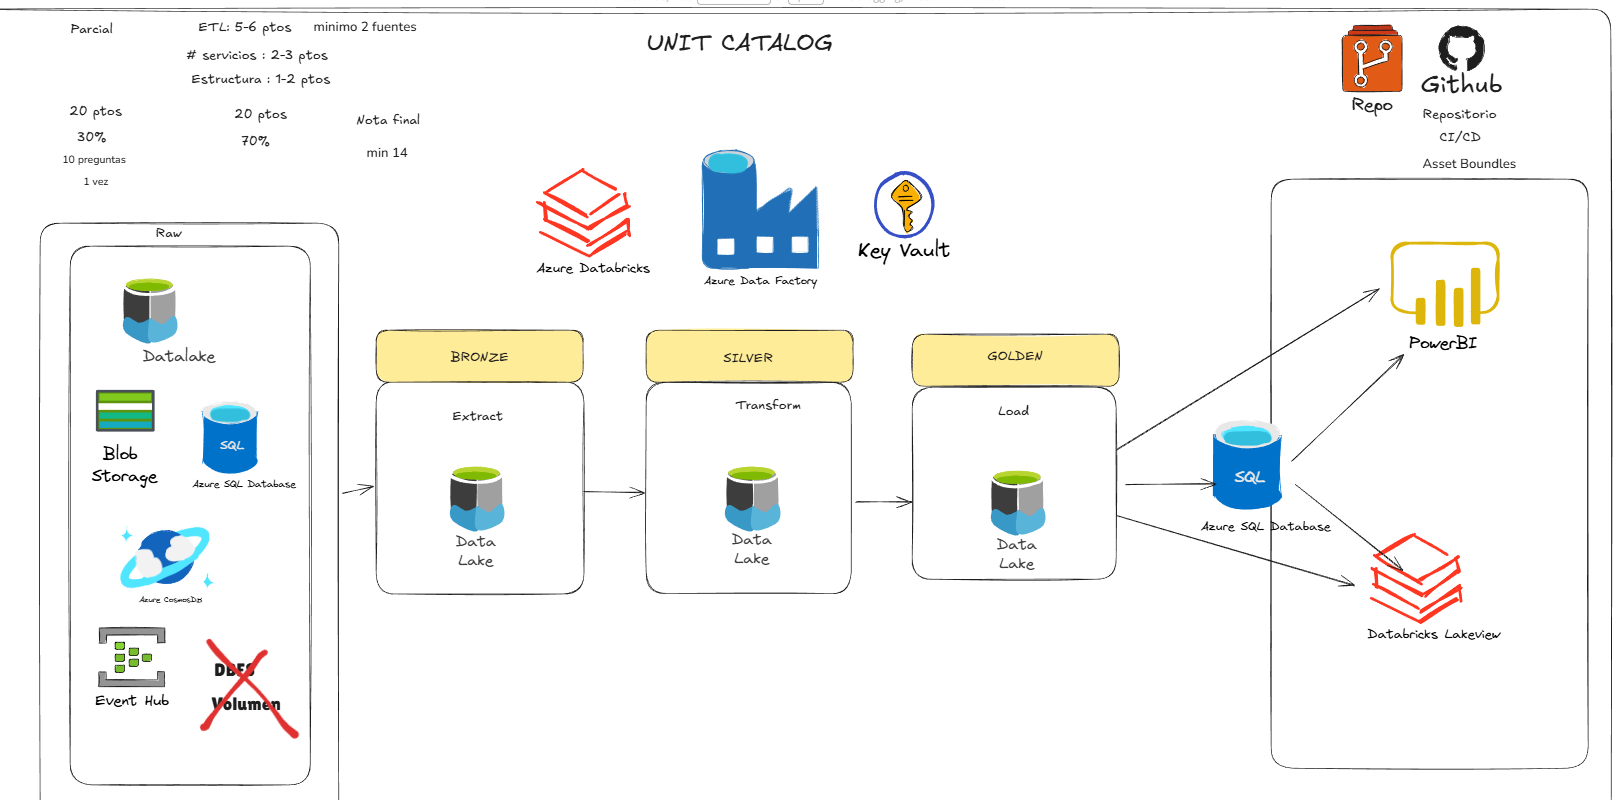
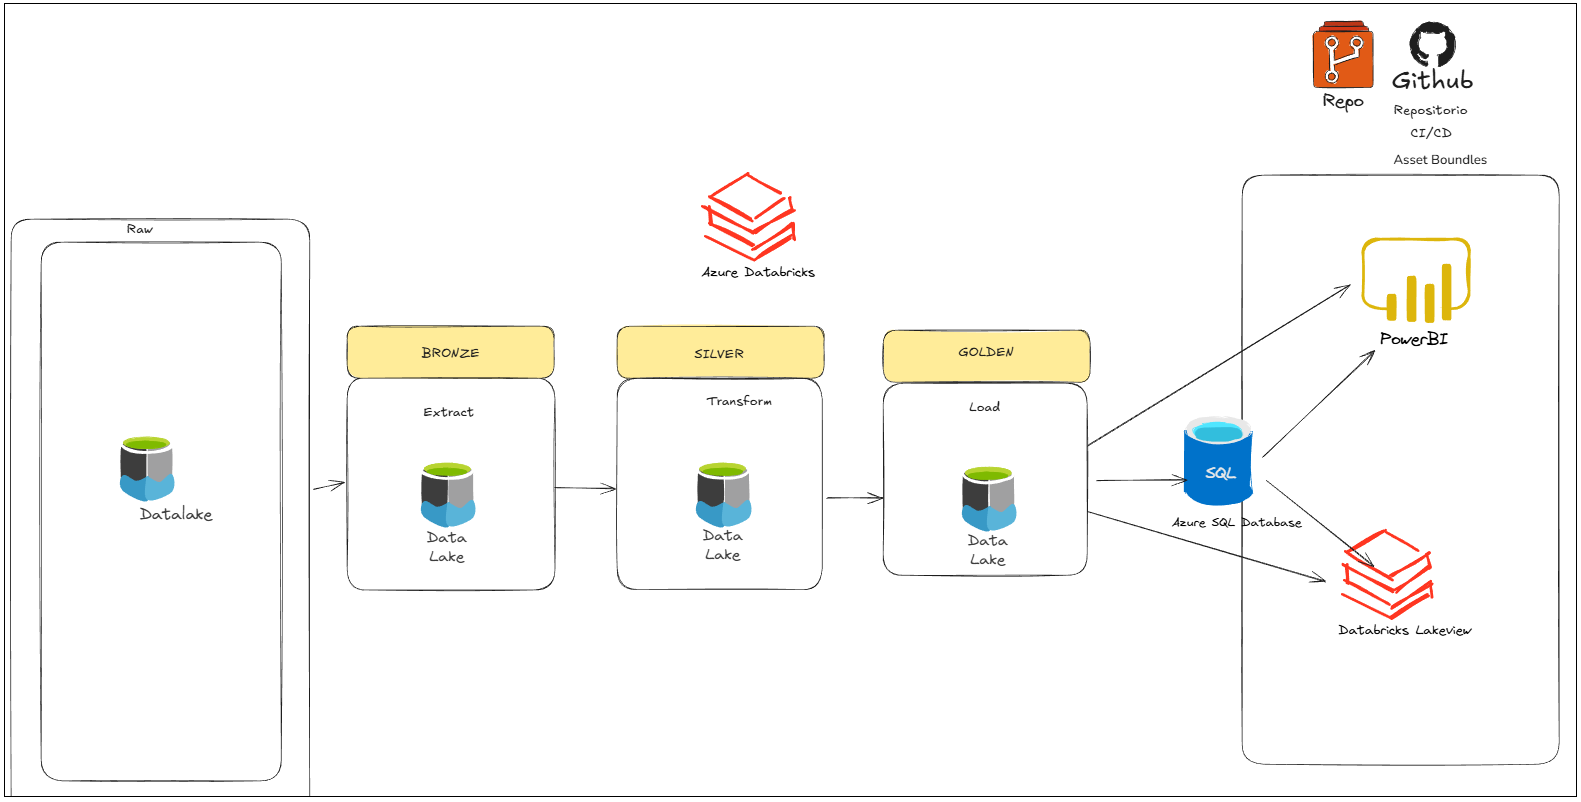
DEV TO PROD

diff --git a/README.md b/README.md
@@ -1,8 +1,115 @@
-# ANALISIS DE BASE DE DATOS DE MOVIES DEL AYER Y HOY
-Proyecto de Ingeniería de Datos en Databricks - SmartData
-### Pipeline automatizado de datos para análisis de PELICULAS con arquitectura de tres capas y despliegue continuo
+# ANALISIS DE BD DE PELICULAS EN EL TIEMPO
+---
+**Proyecto de Ingeniería de Datos en Databricks - SmartData**
+<hr>
 
+## Descripción
+Pipeline automatizado de datos para análisis de PELICULAS en el tiempo con arquitectura de tres capas y despliegue continuo.
+<hr>
 
-**Arquitectura**
+## Arquitectura
 ![](Arquitectura.png)
+---
+## 📁 Estructura del Proyecto
 
+```
+CICDSMARTDATAPROYECTO/
+│
+├── 📂 .github/
+│   └── 📂 workflows/
+│       └── 📄 deploy_dev_to_prod_databricks.yml   # Pipeline CI/CD deploy a certification workspace databricks
+├── 📂 Proceso/
+│   ├── Ingest_FilmDetails.py  # Bronze layer
+│   ├── Ingest_PosterPath.py   # Bronze Layer
+│   ├── Ingest_movies.py       # Bronze Layer
+│   ├── Transform.py           # Silver Layer
+│   └── Load.py                # Gold Layer
+├── 📂 Scripts/
+|   ├── Preparacion_Ambiente.py    # Create Schema, Tables, External location
+|   └── Conexion-AzureSQL-Proj.py  # Conexión BD Azure SQL
+├── 📂 Seguridad/
+|   ├── Grants-Users-Groups.py  # Sql Grant
+├── 📂 Reversion/
+|   ├── Drop-revoke-proyecto.py   # Revoke permissions
+├── 📂 dashboards/                    
+|   ├── Dashboard_Movies.pdf           # Exportado PDF del Power BI
+|   ├── Peliculas- Movies.pdf          # Exportado PDF del Dashboard Databricks
+|   └── Peliculas- Movies.lvdash.json  #Exportado JSON del Dashboard Databricks
+├── 📂 Datasets/ 
+|   ├── FilmDetails.csv   # Fuente Dato 1
+|   ├── Movies.csv        # Fuente Dato 2
+|   └── PosterPath.csv    # Fuente Dato 3
+└── 📄 README.md
+```
+
+### Capas del Pipeline
+
+<table>
+<tr>
+<td width="33%" valign="top">
+
+#### 🥉 Bronze Layer
+**Propósito**: Zona de aterrizaje
+
+**Tablas**: 
+- `filmdetails` 
+- `movies` 
+- `posterpath`
+
+**Características**:
+- Datos tal como vienen de origen
+- Timestamp de ingesta
+- Preservación histórica
+- Sin validaciones
+
+</td>
+<td width="33%" valign="top">
+
+#### 🥈 Silver Layer
+**Propósito**: Transformaciones
+
+**Tablas**:
+- `movies_transformed`
+
+**Características**:
+- Star Schema
+- Datos normalizados
+- Validaciones completas
+
+</td>
+<td width="33%" valign="top">
+
+#### 🥇 Gold Layer
+**Propósito**: Analytics-ready, agrupaciones
+
+**Tablas**:
+- golden_movies_partitioned : Peliculas agrupados por años en duración, ingresos, presupuesto, record, votos,etc
+
+
+**Características**:
+- Pre-agregados
+- Optimizado para BI
+- Performance máximo
+- Actualizaciones automáticas
+
+</td>
+</tr>
+</table>
+
+## 🛠 Tecnologías
+
+<div align="center">
+
+| Tecnología | Propósito |
+|:----------:|:----------|
+| ![Databricks](https://img.shields.io/badge/Azure_Databricks-FF3621?style=flat-square&logo=databricks&logoColor=white) | Motor de procesamiento distribuido Spark |
+| ![Delta Lake](https://img.shields.io/badge/Delta_Lake-00ADD8?style=flat-square&logo=delta&logoColor=white) | Storage layer con ACID transactions |
+| ![PySpark](https://img.shields.io/badge/PySpark-E25A1C?style=flat-square&logo=apache-spark&logoColor=white) | Framework de transformación de datos |
+| ![ADLS](https://img.shields.io/badge/ADLS_Gen2-0078D4?style=flat-square&logo=microsoft-azure&logoColor=white) | Data Lake para almacenamiento persistente |
+| ![GitHub Actions](https://img.shields.io/badge/GitHub_Actions-2088FF?style=flat-square&logo=github-actions&logoColor=white) | Automatización CI/CD |
+| ![Databricks Dashboards](https://img.shields.io/badge/Databricks Dashboards-F2C81?style=for-the-badge&logo=databricks&logoColor=black) |  Visualización |
+| ![Databricks Dashboards](https://img.shields.io/badge/Power_BI-Power_BI_Data_Analyst_Associate-FEB800) |  Visualización |
+
+</div>
+
+---
